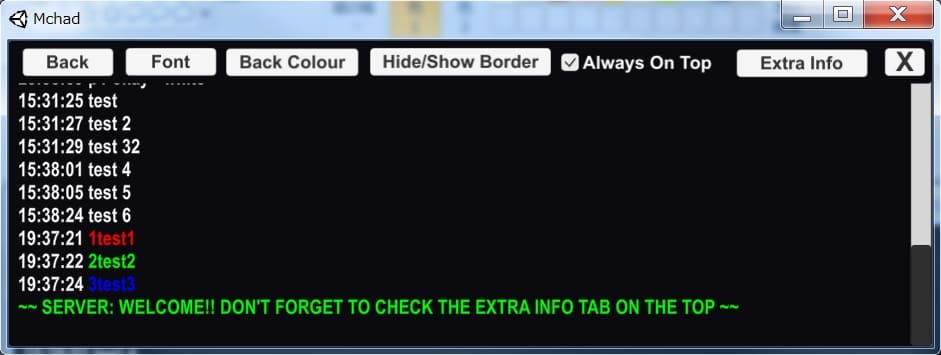
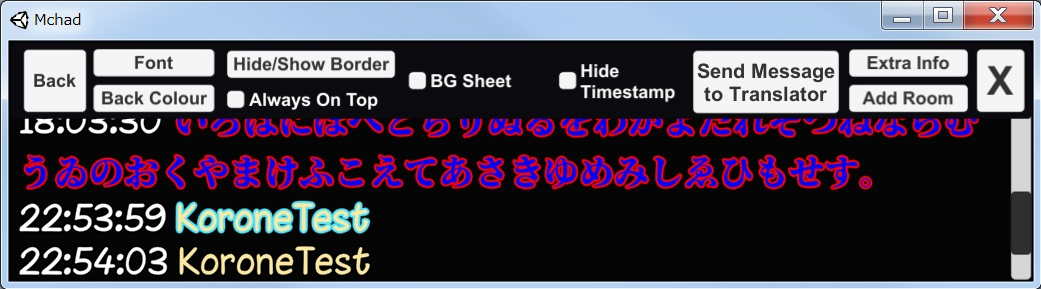
update 0.8.5.2

diff --git a/HTU_Translator/HTU_Translator.html b/HTU_Translator/HTU_Translator.html
@@ -14,7 +14,6 @@
             <li><a href="HTU_Translator.html#Login">Login</a></li>
             <li><a href="HTU_Translator.html#TLPanel">Translator Panel</a></li>
             <li><a href="HTU_Translator.html#Profile">Profile and Preset</a></li>
-            <li><a href="HTU_Translator.html#EDPanel">Editor Panel</a></li>
             <li><a href="HTU_Translator.html#ReserveRoom">Reserving Room</a></li>
             <li><a href="HTU_Translator.html#Extras">Extra Panel</a></li>
             <li><a href="HTU_Translator.html#ExportScript">Export Script</a></li>
@@ -50,10 +49,10 @@
         <ul>
             <li>Prefix : Automatically add fixed prefix.</li>
             <li>Suffix : Automatically add fixed suffix.</li>
-            <li>Colour Code : Pick colour for the colour code.</li>
+            <li>Colour Code : Pick colour for the colour of the text.</li>
             <li>Colour Toggle : Toggle to put in colour code.</li>
-            <li>Info Board : This is where you can put in extra info on the stream you're translating.</li>
-            <li>Editor Mode : Change to editor mode.</li>
+            <li>Outline : Pick colour for the custom outline colour.</li>
+            <li>Outline Toggle : Toggle to put in custom outline colour.</li>
         </ul>
     </div>
     <br>
@@ -62,6 +61,11 @@
     <img src="Images/TranslatorPnl2.jpg" width="40%" style="border: 5px solid black; min-width: 400px;"><br>
     <p>2. Once your message is sent, the message input will be emptied and you can immediately write your next message</p>
     <img src="Images/TranslatorPnl3.jpg" width="40%" style="border: 5px solid black; min-width: 400px;"><br>
+    <p>3. You can click an entry to call extra panel to quickly delete or edit an entry</p>
+    <img src="Images/TranslatorPnl4.jpg" width="40%" style="border: 5px solid black; min-width: 400px;"><br>
+    <p>4. The edit panel will automatically load the setting of the entry, you can quickly change the text colour and outline from saved preset using the dropdown menu</p>
+    <img src="Images/TranslatorPnl5.jpg" width="40%" style="border: 5px solid black; min-width: 400px;"><br>
+
     <hr><br>
 
     <a class="AnchorLink" id="Profile">Profile & Preset</a><br>
@@ -76,7 +80,8 @@
             <li>Shift Down : Shift the selected profile down in the list.</li>
             <li>Remove Profile : Delete the selected profile from the profile list.</li>
             <li>Manage Preset : Open the preset panel.</li>
-            <li>You can switch between profile using tab key</li>
+            <li>You can switch between profile using tab key or up and down arrow keys.</li>
+            <li>You can also jump to default profile using shift + tab.</li>
         </ul>
     </div>
     <br>
@@ -89,17 +94,6 @@
     <img src="Images/Profile2.jpg" width="40%" style="border: 5px solid black; min-width: 400px;"><br>
     <p>To add/delete prefix, just pick the prefix then click "add to list" to add to the profile list or "delete" button to delete the selected prefix</p>
     <img src="Images/Profile3.jpg" width="40%" style="border: 5px solid black; min-width: 400px;"><br>
-    <hr><br>
-
-    <a class="AnchorLink" id="EDPanel">Editor Panel</a><br>
-    <p>Editor Panel located in the bottom part of the window in editor mode</p>
-    <img src="Images/EditorPnl1.jpg" width="40%" style="border: 5px solid black; min-width: 400px;"><br>
-    <p>1. To edit an entry, just click on the entry and you'll see *___* sign that shows which entry that you're editing</p>
-    <img src="Images/EditorPnl2.jpg" width="40%" style="border: 5px solid black; min-width: 400px;"><br>
-    <p>2. Enter the new entry that you want to change to</p>
-    <img src="Images/EditorPnl3.jpg" width="40%" style="border: 5px solid black; min-width: 400px;"><br>
-    <p>3. Click on "Send Button" or press enter twice on your keyboard</p>
-    <img src="Images/EditorPnl4.jpg" width="40%" style="border: 5px solid black; min-width: 400px;"><br>
     <hr><br>
 
     <a class="AnchorLink" id="ReserveRoom">Reserving Room</a><br>
@@ -132,7 +126,9 @@
             <li>Always On Top (only available in windows client) : Set the window to always on top.<br>
                 If you're using Linux with GNOME graphic, you can also do the same by right clicking the window and click always on top.
             </li>
-            <li>Extra Info : Open extra panel that contains extra information that the translator might post.</li>
+            <li>Info Board : Open extra panel that contains extra information that the translator might post.</li>
+            <li>Password : Set password protection for the room so only certain listeners can login.</li>
+            <li>Message panel : Hide/Show the message panel.</li>
             <li>X : Close the app.</li>
         </ul>
     </div>
@@ -146,7 +142,9 @@
     <img src="Images/Export2.jpg" width="40%" style="border: 5px solid black; min-width: 400px;"><br>
     <p>3. Pick session that you want to export to script file.</p>
     <img src="Images/Export3.jpg" width="40%" style="border: 5px solid black; min-width: 400px;"><br>
-    <p>4. Click on the entry to set the start and the end point.</p>
+    <p>4. Click on the entry to set the start and the end point.<br>
+        The hidden check box will set whether listeners can open the archive or not.    
+    </p>
     <img src="Images/Export4.jpg" width="40%" style="border: 5px solid black; min-width: 400px;"><br>
     <p>5. Either export as .ass file compatible with Aegisub or to simple .srt file.<br>
        File will be saved in the "Saved_Archive" folder of the original folder.

diff --git a/HTU_Listener/HTU_Listener.html b/HTU_Listener/HTU_Listener.html
@@ -23,11 +23,13 @@
     <a class="AnchorLink" id="Login">Login</a><br>
     <p>1. If you use desktop, you'll start here. Just go ahead and click login listener.</p>
     <img src="Images/Login1.jpg" width="20%" style="border: 5px solid black; min-width: 250px;"><br>
-    <p>2. If you use mobile, you'll start here. Search for the room that you want.</p>
-    <img src="Images/Login2.jpg" width="20%" style="border: 5px solid black; min-width: 250px;"><br>
-    <p>3. Pick a room, then click Enter button.</p>
-    <img src="Images/Login3.jpg" width="20%" style="border: 5px solid black; min-width: 250px;"><br>
-    <p>4. If you're using android, you'll have to use SPLIT SCREEN for maximum enjoyment.</p>
+    <p>2. If you use mobile, you'll start here. If you can't find the room that you want, try check the "Empty Room" box.</p>
+    <img src="Images/Login2.jpg" width="30%" style="border: 5px solid black; min-width: 250px;"><br>
+    <p>3. Search for the room that you want.</p>
+    <img src="Images/Login3.jpg" width="30%" style="border: 5px solid black; min-width: 250px;"><br>
+    <p>4. Pick a room, then click Enter button.</p>
+    <img src="Images/Login4.jpg" width="30%" style="border: 5px solid black; min-width: 250px;"><br>
+    <p>5. If you're using android, you'll have to use SPLIT SCREEN for maximum enjoyment.</p>
     <img src="Images/Android.png" width="20%" style="border: 5px solid black; min-width: 250px;"><br>
     <hr><br>
     
@@ -47,12 +49,18 @@
             <li>Always On Top (only available in windows client) : Set the window to always on top.<br>
                 If you're using Linux with GNOME graphic, you can also do the same by right clicking the window and click always on top.
             </li>
+            <li>BG Sheet : Put on semi-transparent backgroud sheet behind the text.</li>
+            <li>Hide Timestamp : Simply hide the timestamp from the entries.</li>
+            <li>Send Message To Translator : Open small panel to send a message to the translator(s) of the picked room.</li>
+            <li>Add Room : Manage the rooms that you actively listening (can be multiple rooms at once).</li>
             <li>Extra Info : Open extra panel that contains extra information that the translator might post.</li>
             <li>X : Close the app.</li>
         </ul>
     </div>
+  <p>3. Extra features including transparent background.</p>
+  <img src="Images/ExtraFeatures.jpg" width="40%" style="border: 5px solid black; min-width: 400px;"><br>
   <hr><br>
-  
+
   <a class="AnchorLink" id="ArchiveViewer">Archive Viewer</a><br>
   <p>1. Open the desktop app and click open archive.</p>
   <img src="Images/ArchiveViewer1.png" width="20%" style="border: 5px solid black; min-width: 250px;"><br>  
@@ -66,5 +74,7 @@
   <img src="Images/ArchiveViewer5.png" width="40%" style="border: 5px solid black; min-width: 400px;"><br>  
   <p>6.The auto-scroll view, it has pause and play button. By nature, live TL is a little bit delayed compared to the stream, so you might want to run the stream a bit ahead.</p>
   <img src="Images/ArchiveViewer6.png" width="40%" style="border: 5px solid black; min-width: 400px;"><br>
+  <p>7. Auto-scroll view has the same features as usual listeners.</p>
+  <img src="Images/ArchiveViewer7.png" width="40%" style="border: 5px solid black; min-width: 400px;"><br>
 
 </body>
